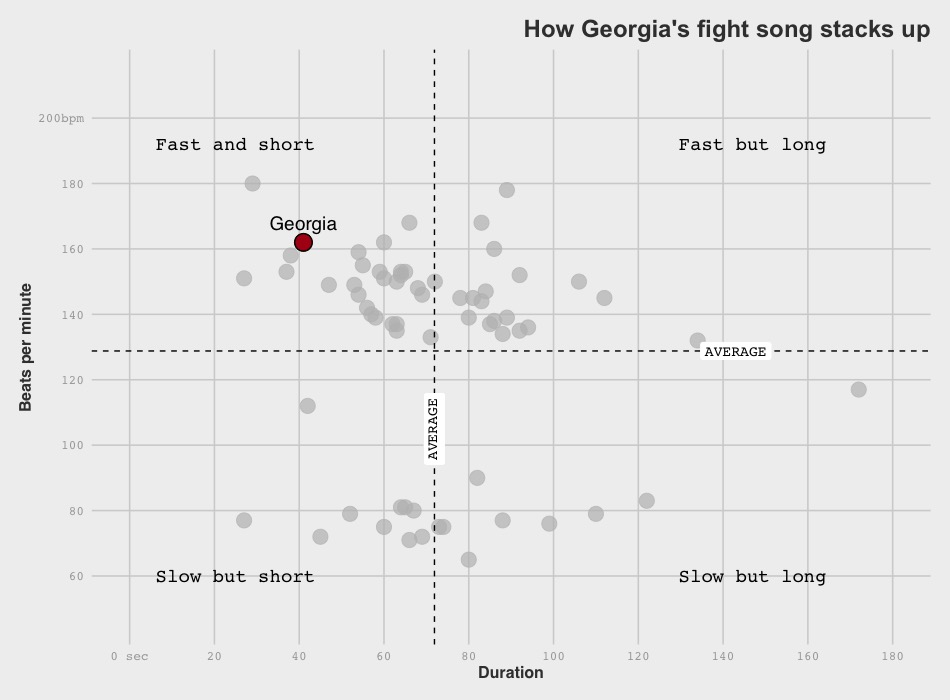
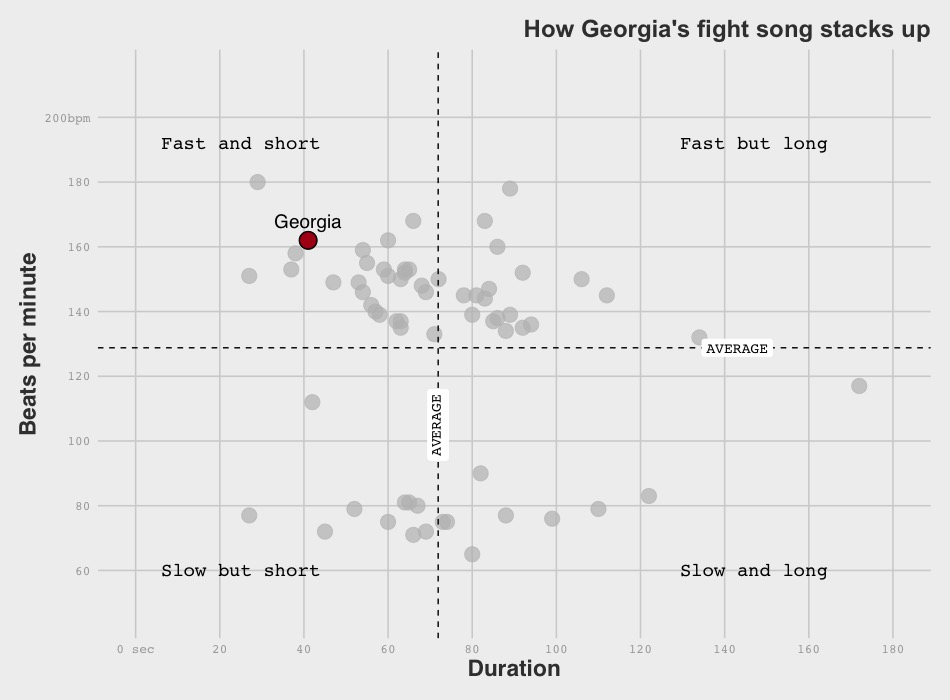
Updated Visualization Assignment
Changed the font size on the final figure to match the original. Still could not figure out best way to approach the colors on the other points.

diff --git a/docs/visualization.html b/docs/visualization.html
@@ -583,8 +583,8 @@ $(document).ready(function () {
 <span id="cb13-70"><a href="#cb13-70" aria-hidden="true" tabindex="-1"></a>        <span class="fu">theme</span>(<span class="at">plot.title =</span> <span class="fu">element_text</span>(<span class="at">hjust =</span> <span class="dv">1</span>, <span class="at">family =</span> <span class="st">&quot;Arial&quot;</span>, <span class="at">face =</span> <span class="st">&quot;bold&quot;</span>),</span>
 <span id="cb13-71"><a href="#cb13-71" aria-hidden="true" tabindex="-1"></a>              <span class="at">axis.text.x =</span> <span class="fu">element_text</span>(<span class="at">family =</span> <span class="st">&quot;mono&quot;</span>, <span class="at">color =</span> <span class="st">&quot;#A9A9A9&quot;</span>),</span>
 <span id="cb13-72"><a href="#cb13-72" aria-hidden="true" tabindex="-1"></a>              <span class="at">axis.text.y =</span> <span class="fu">element_text</span>(<span class="at">family =</span> <span class="st">&quot;mono&quot;</span>, <span class="at">color =</span> <span class="st">&quot;#A9A9A9&quot;</span>),</span>
-<span id="cb13-73"><a href="#cb13-73" aria-hidden="true" tabindex="-1"></a>              <span class="at">axis.title.x =</span> <span class="fu">element_text</span>(<span class="at">face =</span> <span class="st">&quot;bold&quot;</span>),</span>
-<span id="cb13-74"><a href="#cb13-74" aria-hidden="true" tabindex="-1"></a>              <span class="at">axis.title.y =</span> <span class="fu">element_text</span>(<span class="at">face =</span> <span class="st">&quot;bold&quot;</span>)) <span class="sc">+</span></span>
+<span id="cb13-73"><a href="#cb13-73" aria-hidden="true" tabindex="-1"></a>              <span class="at">axis.title.x =</span> <span class="fu">element_text</span>(<span class="at">face =</span> <span class="st">&quot;bold&quot;</span>, <span class="at">size =</span> <span class="st">&quot;17&quot;</span>),</span>
+<span id="cb13-74"><a href="#cb13-74" aria-hidden="true" tabindex="-1"></a>              <span class="at">axis.title.y =</span> <span class="fu">element_text</span>(<span class="at">face =</span> <span class="st">&quot;bold&quot;</span>, <span class="at">size =</span> <span class="st">&quot;17&quot;</span>)) <span class="sc">+</span></span>
 <span id="cb13-75"><a href="#cb13-75" aria-hidden="true" tabindex="-1"></a>        </span>
 <span id="cb13-76"><a href="#cb13-76" aria-hidden="true" tabindex="-1"></a>        <span class="fu">ggtitle</span>(<span class="st">&quot;How Georgia&#39;s fight song stacks up&quot;</span>) <span class="sc">+</span></span>
 <span id="cb13-77"><a href="#cb13-77" aria-hidden="true" tabindex="-1"></a>        </span>
